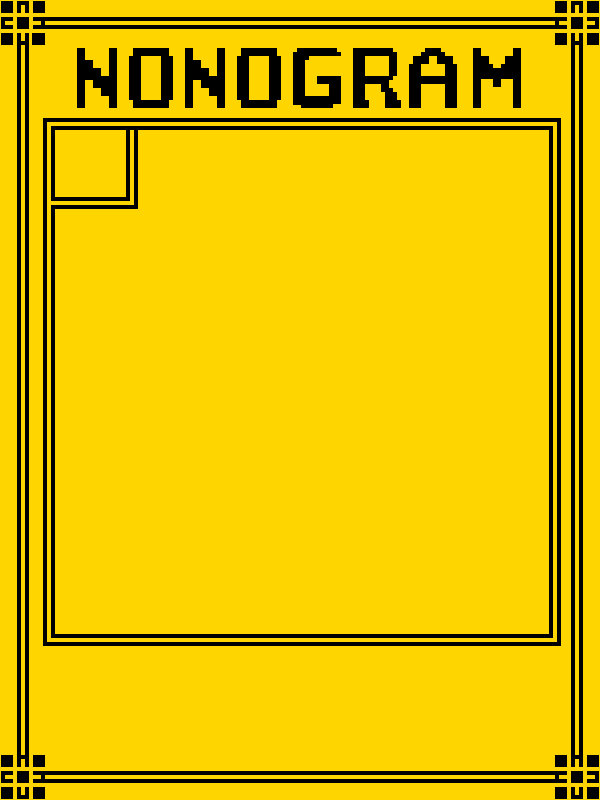
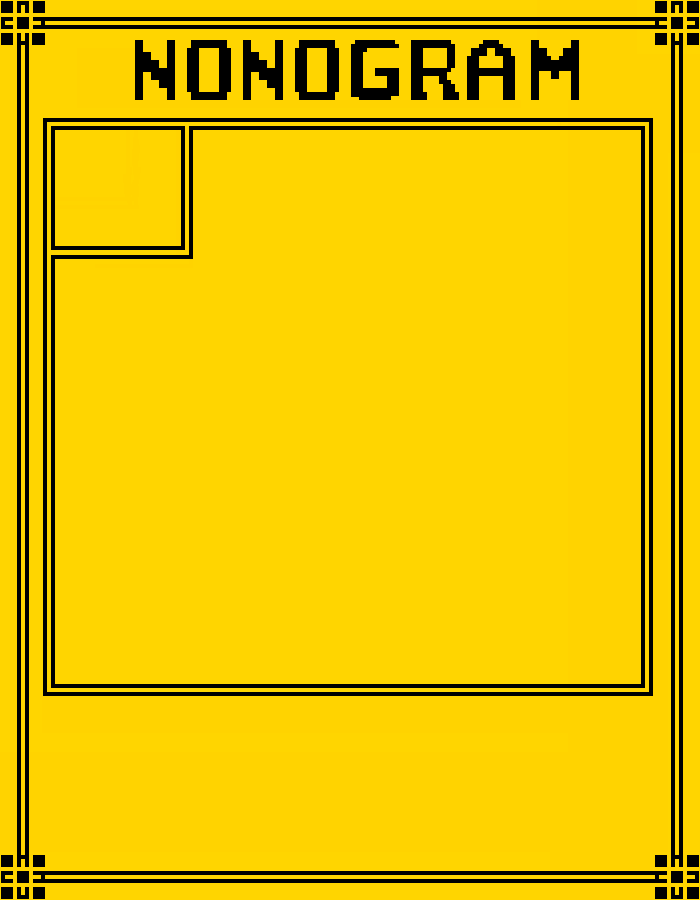
This is the final version, I have resized the GUI so that it fits all the numbers, and spaces out the nonogram puzzle a bit more, so that it is easier to see.

Changed region(s): [[0.0, 0.0, 1.0, 1.0]]

diff --git a/GUI.java b/GUI.java
@@ -42,10 +42,10 @@ public class GUI extends JFrame {
     }
 
     private void initMainFrame(){
-        FrameImage bg = new FrameImage("guiImages/frameMain.png");
+        FrameImage bg = new FrameImage("guiImages/temp5.png");
         setContentPane(bg);
         setDefaultCloseOperation(JFrame.EXIT_ON_CLOSE);
-        setSize(600, 800);
+        setSize(700, 900);
         setLayout(null);
         setVisible(true);
         setResizable(false);
@@ -60,7 +60,7 @@ public class GUI extends JFrame {
 
     private void initMainPanel(){
         this.mainPanel = new JPanel(new BorderLayout());
-        this.mainPanel.setBounds(135,200, 400, 400);
+        this.mainPanel.setBounds(185,250, 400, 400);
         this.mainPanel.setBackground(new Color(255, 213, 00));
         this.mainPanel.add(this.nonogramPanel, BorderLayout.CENTER);
     }
@@ -68,32 +68,32 @@ public class GUI extends JFrame {
     private void initLeftPanel(){
         this.leftPanel = new JPanel(new BorderLayout());
         this.leftPanel.setBackground(new Color(255,213,0));
-        this.leftPanel.setBounds(60,200,75,400);
+        this.leftPanel.setBounds(60,250,125,400);
         this.leftPanel.add(this.leftNumbersPanel, BorderLayout.CENTER);
     }
 
     private void initTopPanel(){
         this.topPanel = new JPanel(new BorderLayout());
         this.topPanel.setBackground(new Color(255,213,0));
-        this.topPanel.setBounds(135, 125, 400, 75);
+        this.topPanel.setBounds(190, 125, 400, 125);
         this.topPanel.add(this.topNumbersPanel, BorderLayout.CENTER);
     }
 
     private void initToolPanel(){
         this.toolPanel = new JPanel(new BorderLayout());
         this.toolPanel.setBackground(new Color(255,213,0));
-        this.toolPanel.setBounds(125, 625, 325,50);
+        this.toolPanel.setBounds(190, 700, 325,50);
         this.toolPanel.add(this.colourButtonsPanel);
     }
 
     private void initConditionsPanel(){
         this.conditionsPanel = new JPanel(new BorderLayout());
         this.conditionsPanel.setBackground(new Color(255,213,0));
-        this.conditionsPanel.setBounds(125, 690, 325, 25);
+        this.conditionsPanel.setBounds(190, 760, 325, 25);
         this.conditionsPanel.add(this.buttonsPanel);
     }
 
     private void initCheckSum(){
-        this.checkSumLabel.setBounds(70,130,50,50);
+        this.checkSumLabel.setBounds(80,140,75,75);
     }
 }

diff --git a/StateButtons.java b/StateButtons.java
@@ -11,6 +11,7 @@ import javax.swing.JLabel;
 import java.awt.color.*;
 import java.awt.event.MouseAdapter;
 import java.awt.event.MouseEvent;
+import java.io.IOException;
 
 public class StateButtons {
     private Nonogram nonogram;
@@ -18,7 +19,7 @@ public class StateButtons {
     private JPanel buttonsPanel;
     private JButton checkButton;
     private JButton completeButton;
-    private Font mainFont = new Font("Impact", Font.PLAIN, 30);
+    private Font mainFont = new Font("Impact", Font.PLAIN, 50);
 
     public StateButtons(Nonogram nonogramPuzzle){
         this.nonogram = nonogramPuzzle;
@@ -59,7 +60,7 @@ public class StateButtons {
         JButton complete = new JButton(completeImage);
         complete.setBackground(new Color(255,213,0));
         //action listener detects when button was pressed
-        complete.addMouseListener(new MouseAdapter() {
+        complete.addMouseListener(new MouseAdapter(){
             int timesPressed = 0; //first cick = incorrect, second click = complete 
             public void mouseClicked(MouseEvent event){
                 if (timesPressed == 0){
@@ -89,14 +90,14 @@ public class StateButtons {
     }
 
     private void winnerCheckSum(){
-        Font winnerFont = new Font("IMPACT", Font.PLAIN, 15);
+        Font winnerFont = new Font("IMPACT", Font.PLAIN, 20);
         this.checkSum.setFont(winnerFont);
         this.checkSum.setForeground(new Color(0,0,255));
         this.checkSum.setText("WINNER");
     }
 
     private void loserCheckSum(){
-        Font loserFont = new Font("IMPACT", Font.PLAIN, 20);
+        Font loserFont = new Font("IMPACT", Font.PLAIN, 30);
         this.checkSum.setFont(loserFont);
         this.checkSum.setForeground(new Color(255, 0, 0));
         this.checkSum.setText("LOSER");
